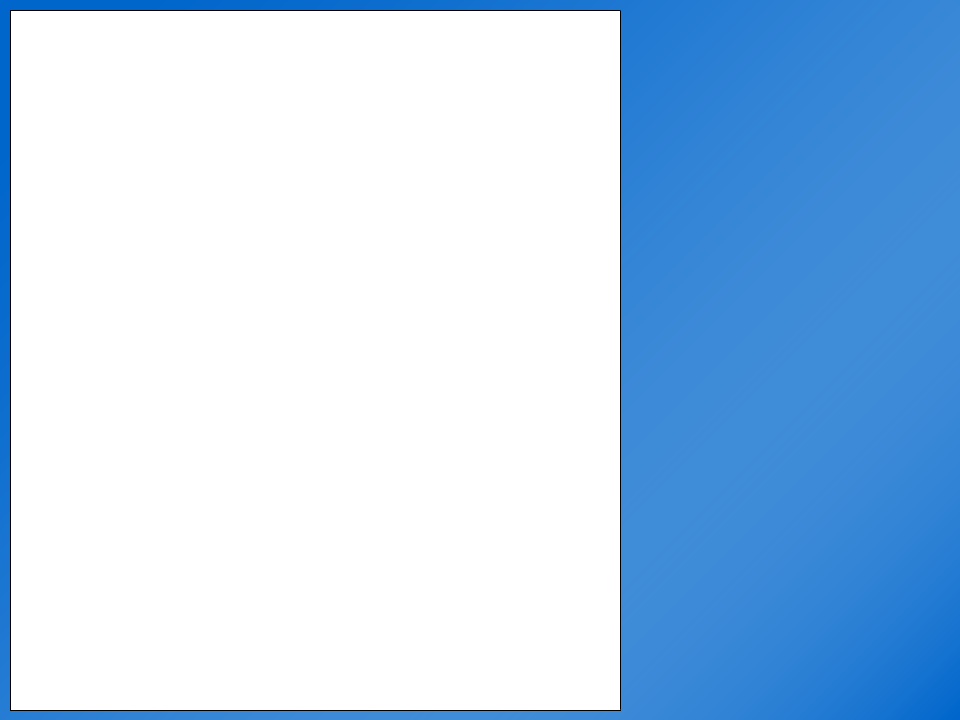
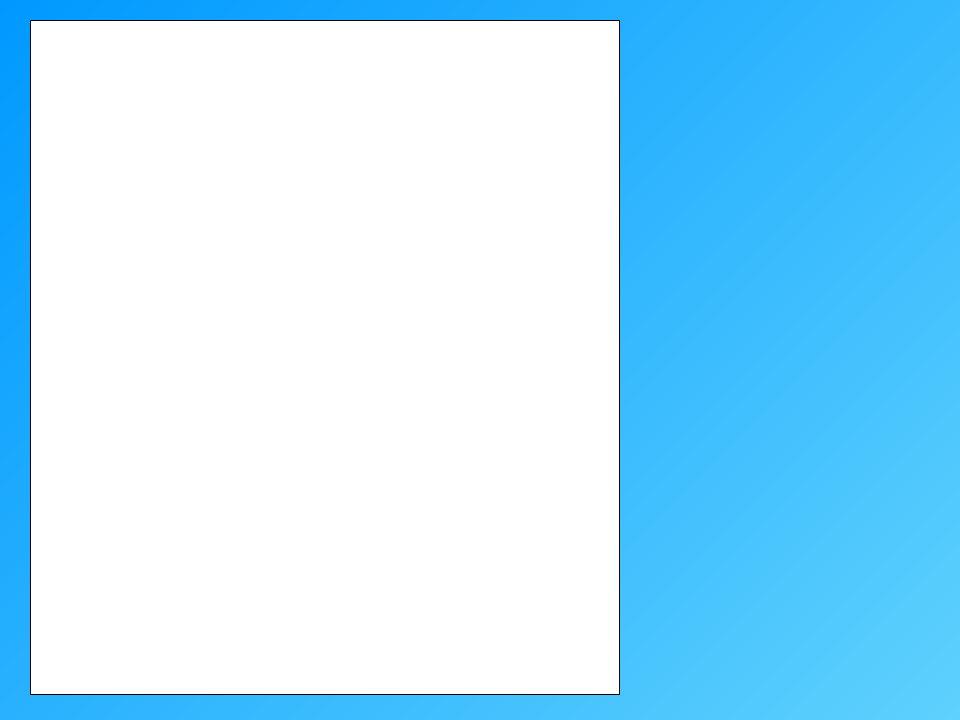
修改背景 完善多处UI 被弹判定修改

diff --git a/game.py b/game.py
@@ -7,7 +7,6 @@ screenY = 720
 gameX = 620
 size = (screenX,screenY)
 screen = pygame.display.set_mode(size)
-font = pygame.sysfont.SysFont('Arial',24)
 
 class UIasset():
     def __init__(self):
@@ -18,15 +17,31 @@ class UIasset():
         self.framework.set_colorkey((255,255,255))
         self.bomb.set_colorkey((240,240,240))
         self.HP.set_colorkey((240,240,240))
+        self.fpsTimer = 0
     def drawBefore(self):
-        screen.blit(self.background, (10, 10))
+        screen.blit(self.background, (30, 20))
     def drawAfter(self):
+        #游戏UI背景
         screen.blit(self.framework, (0, 0))
-        fpstext = font.render(str("{0:.2f}".format(clock.get_fps())), True, (240, 240, 240))
-        screen.blit(fpstext, (570, 680))
-        pygame.draw.rect(screen, 'RED', (20, 20, 590*Baka.HP/Baka.maxHP, 10), 0)
+        #帧率显示
+        if not self.fpsTimer:
+            font = pygame.sysfont.SysFont('Arial',20)
+            self.fpstext = font.render(str("{0:.2f}".format(clock.get_fps())), True, (255, 255, 255))
+            self.fpsTimer = 60
+        screen.blit(self.fpstext, (900, 680))
+        self.fpsTimer -= 1
+        #敌机血量显示
+        pygame.draw.rect(screen, 'RED', (40, 30, 570*Baka.HP/Baka.maxHP, 10), 0)
+        #残机显示
+        font = pygame.sysfont.SysFont('SimSun',20)
+        screen.blit(font.render("剩余人数：",True, (240, 240, 240)),(630,200))
         for i in range(player_Character.HP):
-            screen.blit(UI.HP, (660+i*30, 200))
+            screen.blit(UI.HP, (730+i*25, 200))
+        #敌人位置显示
+        font = pygame.sysfont.SysFont('SimSun',16)
+        screen.blit(font.render("| ENEMY |",True, (255, 0, 0)),(Baka.rect.x,700))
+
+
 class playerCharacter(pygame.sprite.Sprite):
     def __init__(self):
         super().__init__()
@@ -46,18 +61,17 @@ class playerCharacter(pygame.sprite.Sprite):
         self.HP = 5
         self.Bomb = 3
         self.invincibleTime = 0
-        self.radius = 5
     def update(self):
         self.rect.x += (self.rightspeed - self.leftspeed) * self.slow
         self.rect.y += (self.downspeed - self.upspeed) * self.slow
-        self.rect.x=min(gameX - 20,self.rect.x)
-        self.rect.x=max(10,self.rect.x)
+        self.rect.x=min(gameX - 30,self.rect.x)
+        self.rect.x=max(40,self.rect.x)
         self.rect.y=min(screenY - 50,self.rect.y)
-        self.rect.y=max(10,self.rect.y)
+        self.rect.y=max(50,self.rect.y)
         #list = pygame.sprite.spritecollide(self,enemyBulletGroup, True)
         self.iscoll = False
         for item in enemyBulletGroup:
-            if pygame.sprite.collide_circle(item,player_Character):
+            if pygame.sprite.collide_circle_ratio(0.6)(item,player_Character):
                 self.iscoll = item
                 break
         if self.iscoll:
